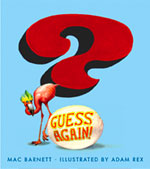
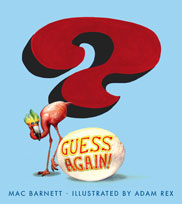
fix-width book images

diff --git a/v2/books_inner.html b/v2/books_inner.html
@@ -6,7 +6,7 @@
   <div id="books">
     <div class='book'>
       <div class='image'>
-        <a href='brixton_brothers.html' target='_top'><img src="imagesv2/brixton_brothers.jpg" width="138" height="200" alt="Brixton Brothers"></a>
+        <a href='brixton_brothers.html' target='_top'><img src="imagesv2/brixton_brothers.jpg" width="182" height="263" alt="Brixton Brothers"></a>
       </div>
       <div class='content'>
         <div class='title'>
@@ -66,7 +66,7 @@
 
     <div class='book'>
       <div class='image'>
-        <a href='guess_again.html' target="_top"><img src="imagesv2/guess_again.jpg" width="150" height="169" alt="Guess Again" /></a>
+        <a href='guess_again.html' target="_top"><img src="imagesv2/guess_again.jpg" width="182" height="204" alt="Guess Again" /></a>
       </div>
       <div class='content'>
         <div class='title'>
